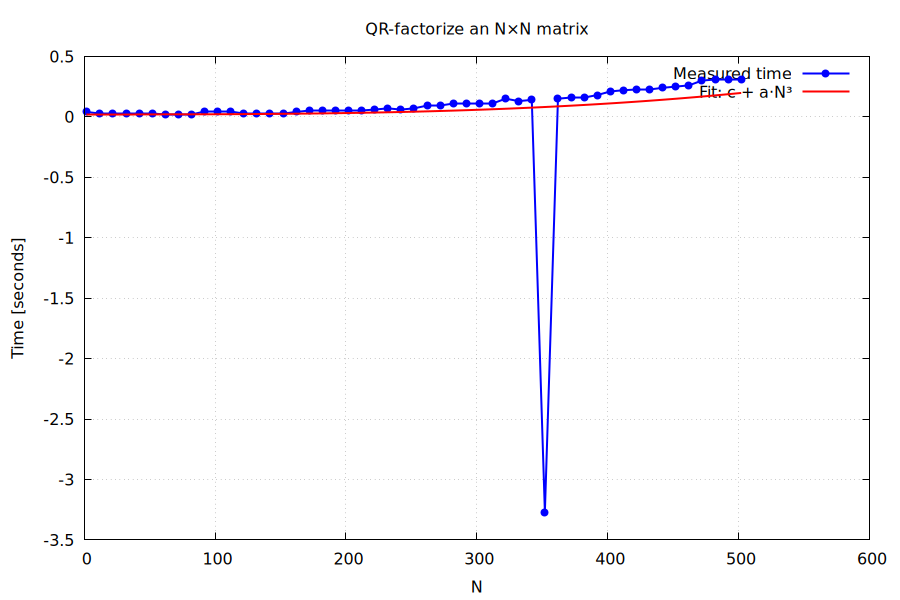
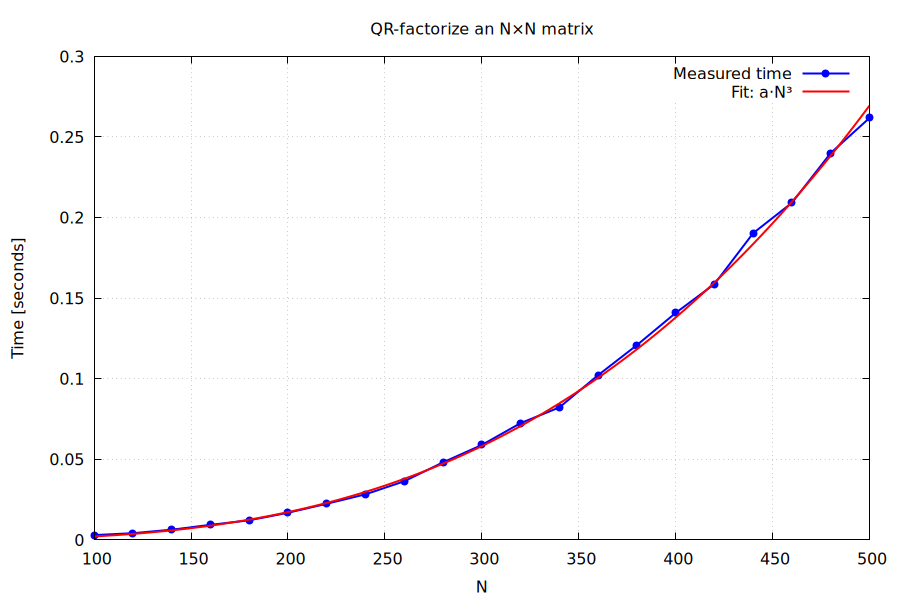
Fixet problem med negativ tid

diff --git a/Homework/1_Linear_Equations_GFXXXT_god/Main.cs b/Homework/1_Linear_Equations_GFXXXT_god/Main.cs
@@ -21,8 +21,9 @@ public class MainClass {
         return sb.ToString();
     }
 
-    // Bruges til at målde tiden det tager at QR-faktoriser en NxN matrix
     public static void Main(string[] args) {
+
+        // Bruges til at målde tiden det tager at QR-faktoriser en NxN matrix
         if (args.Length > 0 && args[0].StartsWith("-size:")) {
             int N = int.Parse(args[0].Substring(6));
             var rnd = new Random(1);
@@ -31,11 +32,11 @@ public class MainClass {
                 for (int j = 0; j < N; j++)
                     A_perf[i, j] = rnd.NextDouble();
 
-            var sw = System.Diagnostics.Stopwatch.StartNew();
-            var qr = new QR(A_perf);
-            sw.Stop();
+            var sw = System.Diagnostics.Stopwatch.StartNew(); // start ur
+            var qr = new QR(A_perf);    // lav QR-faktorisation
+            sw.Stop(); // stop ur
 
-            Console.WriteLine($"{N} {sw.Elapsed.TotalSeconds:F6}");
+            Console.WriteLine($"{N} {sw.Elapsed.TotalSeconds:F6}"); // udskriver N og tiden i sekunder
             return;
         }
 
